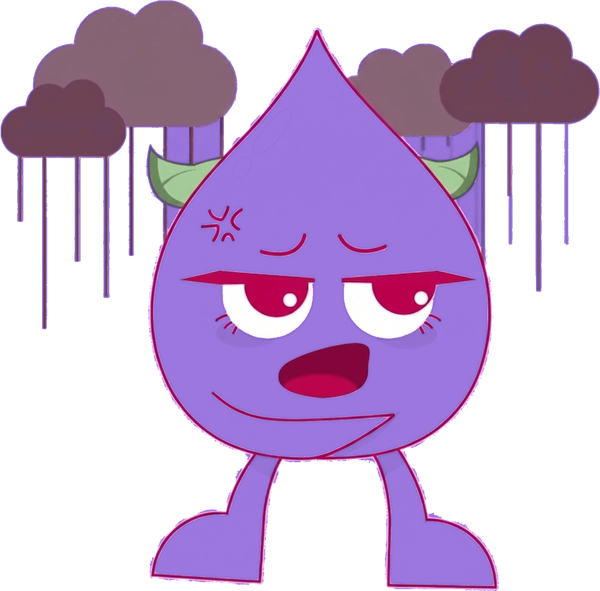
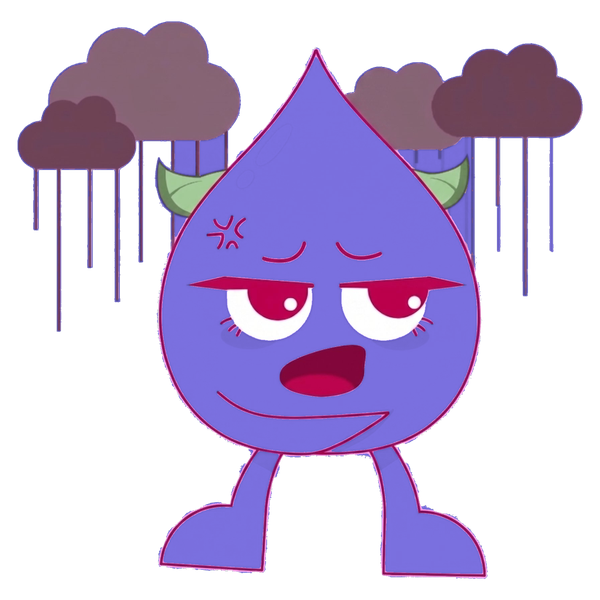
Mascot: #8D80FF, square canvases, drop annoyed, low->sad, sub placement
- Recoloured mascot to #8D80FF.
- Padded every pose onto a uniform square canvas so sizing/placement no longer
  jumps between poses; main-dashboard mascot resized to 148px.
- Dropped the annoyed pose (source art to be redone): removed from the pipeline,
  deleted public/mascot/annoyed.png, simplified the Mascot component (no badge).
- Low scores now use the sad mascot (mascotForScore: >=7 happy, else sad).
- Sub-dashboard mascot moved down and enlarged (168px) via a configurable
  avatarClassName on GradientHeader.

diff --git a/components/kit/Mascot.tsx b/components/kit/Mascot.tsx
@@ -10,8 +10,8 @@ const SPARKLES: { pos: React.CSSProperties; size: number; delay: string }[] = [
 
 /**
  * The owner's mascot character, picked by `state`, gently floating with a few
- * twinkling sparkles around it. Most poses are free-floating cut-outs; the
- * `annoyed` pose came on a coloured background so it renders as a round badge.
+ * twinkling sparkles around it. Each pose is a free-floating cut-out on a
+ * uniform square canvas, so sizing/placement stays consistent across poses.
  */
 export function Mascot({
   state,
@@ -22,9 +22,7 @@ export function Mascot({
   size?: number;
   sparkle?: boolean;
 }) {
-  const isBadge = state === "annoyed";
   const src = `/mascot/${state}.png`;
-  const fit = isBadge ? "cover" : "contain";
 
   return (
     <div className="relative" style={{ width: size, height: size }} aria-hidden>
@@ -38,17 +36,13 @@ export function Mascot({
             ✦
           </span>
         ))}
-      <div
-        className={`mascot-float relative h-full w-full ${
-          isBadge ? "overflow-hidden rounded-full ring-2 ring-white/40" : ""
-        }`}
-      >
+      <div className="mascot-float relative h-full w-full">
         <Image
           src={src}
           alt=""
           fill
           sizes={`${size}px`}
-          className={fit === "cover" ? "object-cover" : "object-contain"}
+          className="object-contain"
           priority
           unoptimized
         />

diff --git a/lib/mascot.ts b/lib/mascot.ts
@@ -2,13 +2,15 @@
  * Mascot pose selection. The processed art lives in public/mascot/*.png.
  * Mapping is intentionally in one place so screens never hardcode it and the
  * owner can re-map poses later with a single edit.
+ *
+ * NOTE: "annoyed" is temporarily not produced (its source art is being redone),
+ * so it isn't returned here yet.
  */
-export type MascotState = "welcome" | "happy" | "sad" | "angry" | "annoyed";
+export type MascotState = "welcome" | "happy" | "sad" | "angry";
 
-/** Pick the mascot pose for a happiness score (uses the score bands). */
+/** Pick the mascot pose for a happiness score. */
 export function mascotForScore(score: number | null, enoughData: boolean): MascotState {
   if (!enoughData || score === null) return "welcome"; // friendly "let's get started"
-  if (score >= 7) return "happy"; // green band
-  if (score <= 3) return "sad"; // red band
-  return "annoyed"; // amber band (4–6)
+  if (score >= 7) return "happy"; // good score
+  return "sad"; // low score → sad mascot
 }

diff --git a/components/kit/GradientHeader.tsx b/components/kit/GradientHeader.tsx
@@ -10,6 +10,7 @@ export function GradientHeader({
   title,
   subtitle,
   avatar,
+  avatarClassName = "absolute -top-3 right-2 z-10",
   back,
   children,
 }: {
@@ -17,6 +18,7 @@ export function GradientHeader({
   title: string;
   subtitle?: string;
   avatar?: ReactNode;
+  avatarClassName?: string;
   back?: { label: string; onClick: () => void };
   children?: ReactNode;
 }) {
@@ -25,7 +27,7 @@ export function GradientHeader({
       className="relative rounded-card px-5 pb-6 pt-5"
       style={{ background: "linear-gradient(160deg, #EDE7FF 0%, #E1D7FF 100%)" }}
     >
-      {avatar && <div className="absolute -top-3.5 right-3.5 z-10">{avatar}</div>}
+      {avatar && <div className={avatarClassName}>{avatar}</div>}
 
       {back && (
         <button

diff --git a/app/(app)/dashboard/employee/PillarDetailView.tsx b/app/(app)/dashboard/employee/PillarDetailView.tsx
@@ -46,7 +46,8 @@ export function PillarDetailView({
         eyebrow="Pillar"
         title={meta.label}
         back={{ label: "Dashboard", onClick: onBack }}
-        avatar={detail ? <Mascot state={mascotForScore(detail.score, true)} size={120} /> : undefined}
+        avatar={detail ? <Mascot state={mascotForScore(detail.score, true)} size={168} /> : undefined}
+        avatarClassName="absolute right-1 top-9 z-10"
       >
         {detail && (
           <div className="mt-3 flex items-end gap-3.5">

diff --git a/app/(app)/dashboard/employee/AnalysisView.tsx b/app/(app)/dashboard/employee/AnalysisView.tsx
@@ -71,7 +71,7 @@ export function AnalysisView({
         eyebrow="Individual"
         title={mode === "company" ? "My Dashboard" : "Overall Career Happiness"}
         subtitle={mode === "company" ? "Current company" : "Aggregate across your career"}
-        avatar={<Mascot state={mascotForScore(data.overall, data.enoughData)} size={172} />}
+        avatar={<Mascot state={mascotForScore(data.overall, data.enoughData)} size={148} />}
       />
 
       <Card>

diff --git a/scripts/process-mascot.py b/scripts/process-mascot.py
@@ -29,7 +29,7 @@ THRESH_DEFAULT = 48  # colour distance counted as "same as background"
 
 # Recolour the character's violet body/outline to this colour (shading kept).
 # Set RECOLOR = None to skip and use the original purple art.
-RECOLOR = "#B388FF"
+RECOLOR = "#8D80FF"
 
 # Drop opaque islands smaller than this fraction of the frame (stray specks /
 # watermark bits) before cropping, so the crop hugs the real character + props.
@@ -65,12 +65,13 @@ def recolor(im: Image.Image, target_hex: str) -> Image.Image:
     return rgb
 
 # source filename -> (output name, threshold override)
+# NOTE: annoyed.png is intentionally excluded for now — the source art needs to
+# be redone (it was a cropped face on a coloured background, unlike the others).
 JOBS = {
     "Welcome.png": ("welcome.png", THRESH_DEFAULT),
     "happy.png":   ("happy.png",   THRESH_DEFAULT),
     "Sad.png":     ("sad.png",     THRESH_DEFAULT),
     "angry.png":   ("angry.png",   THRESH_DEFAULT),
-    "annoyed.png": ("annoyed.png", 70),  # solid maroon bg, needs a wider tolerance
 }
 
 
@@ -159,6 +160,14 @@ def process(src_name, out_name, thresh):
     bbox = im.getbbox()
     if bbox:
         im = im.crop(bbox)
+
+    # Pad onto a uniform square canvas so every pose has the same shape — this
+    # keeps sizing/placement consistent when rendered in a square box.
+    w, h = im.size
+    side = int(round(max(w, h) * 1.06))
+    canvas = Image.new("RGBA", (side, side), (0, 0, 0, 0))
+    canvas.paste(im, ((side - w) // 2, (side - h) // 2), im)
+    im = canvas
 
     im.thumbnail((FINAL, FINAL), Image.LANCZOS)
 
